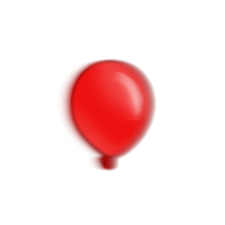
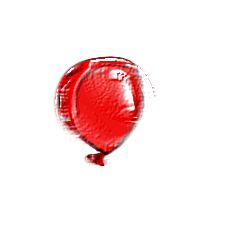
Finished Plasma Monkey Middle Path, Next: Light Monkey.

Changed region(s): [[0.2178, 0.2489, 0.7156, 0.7778]]

diff --git a/Upgrades/PlasmaMonkey/Middle/MiddlePathPlasmaUpgrades.cs b/Upgrades/PlasmaMonkey/Middle/MiddlePathPlasmaUpgrades.cs
@@ -5,6 +5,7 @@ using Il2CppAssets.Scripts.Models.Towers;
 using Il2CppAssets.Scripts.Models.Towers.Behaviors.Abilities;
 using Il2CppAssets.Scripts.Models.Towers.Behaviors.Abilities.Behaviors;
 using Il2CppAssets.Scripts.Models.Towers.Behaviors.Attack;
+using Il2CppAssets.Scripts.Models.Towers.Projectiles;
 using Il2CppAssets.Scripts.Models.Towers.Projectiles.Behaviors;
 using Il2CppAssets.Scripts.Simulation.Towers.Behaviors.Abilities;
 using Il2CppAssets.Scripts.Utils;
@@ -140,12 +141,21 @@ namespace CustomTowerMaybe.Upgrades.PlasmaMonkey.Middle
         {
             var attackModel = towerModel.GetAttackModel();
             var proj = attackModel.weapons[0].projectile;
-            var dmgModel = proj.GetDamageModel();
 
             foreach (var sProj in towerModel.GetWeapons().Select(weaponModel => weaponModel.projectile))
             {
                 sProj.AddBehavior(new DamageModifierForTagModel("DamageModifierForTagModel_Moab", "Moab", 1, 9, false, false));
             }
+
+            var abilityModel = towerModel.GetAbility();
+            abilityModel.resetCooldownOnTierUpgrade = true;
+            abilityModel.icon = GetSpriteReference(Icon);
+            var abilityProj = abilityModel.GetDescendant<ProjectileModel>();
+            abilityProj.ApplyDisplay<BloonDiscintergrationDart>();
+            abilityProj.pierce = proj.pierce;
+            var abilityDamageModel = abilityProj.GetDamageModel();
+            abilityDamageModel.damage += 15;
+            abilityProj.AddBehavior(new DamageModifierForTagModel("DamageModifierForTagModel_Moab", "Moab", 1, 65, false, false));
         }
     }
 }

diff --git a/Displays/Proj/Displays.cs b/Displays/Proj/Displays.cs
@@ -73,5 +73,14 @@ namespace DarksTowers.Displays.Proj
                 Set2DTexture(node, Name);
             }
         }
+        public class BloonDiscintergrationDart : ModDisplay
+        {
+            public override string BaseDisplay => Generic2dDisplay;
+
+            public override void ModifyDisplayNode(UnityDisplayNode node)
+            {
+                Set2DTexture(node, Name);
+            }
+        }
     }
 }
